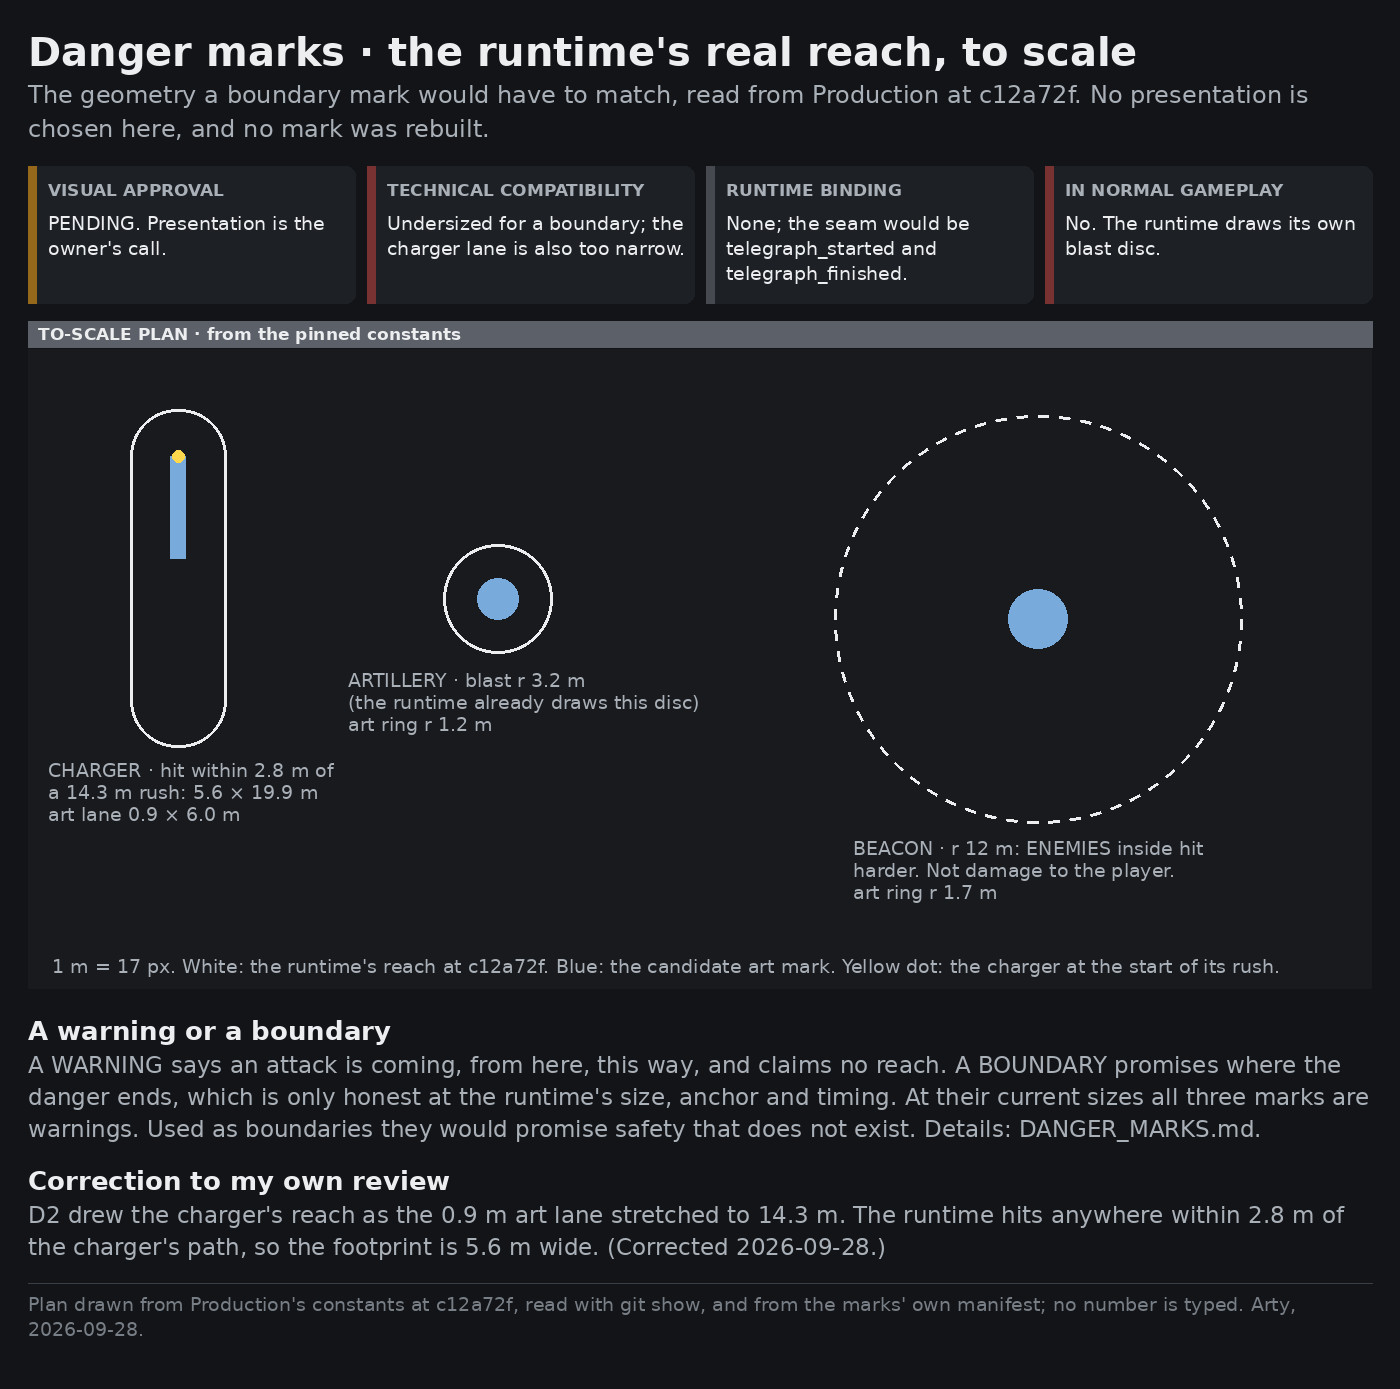
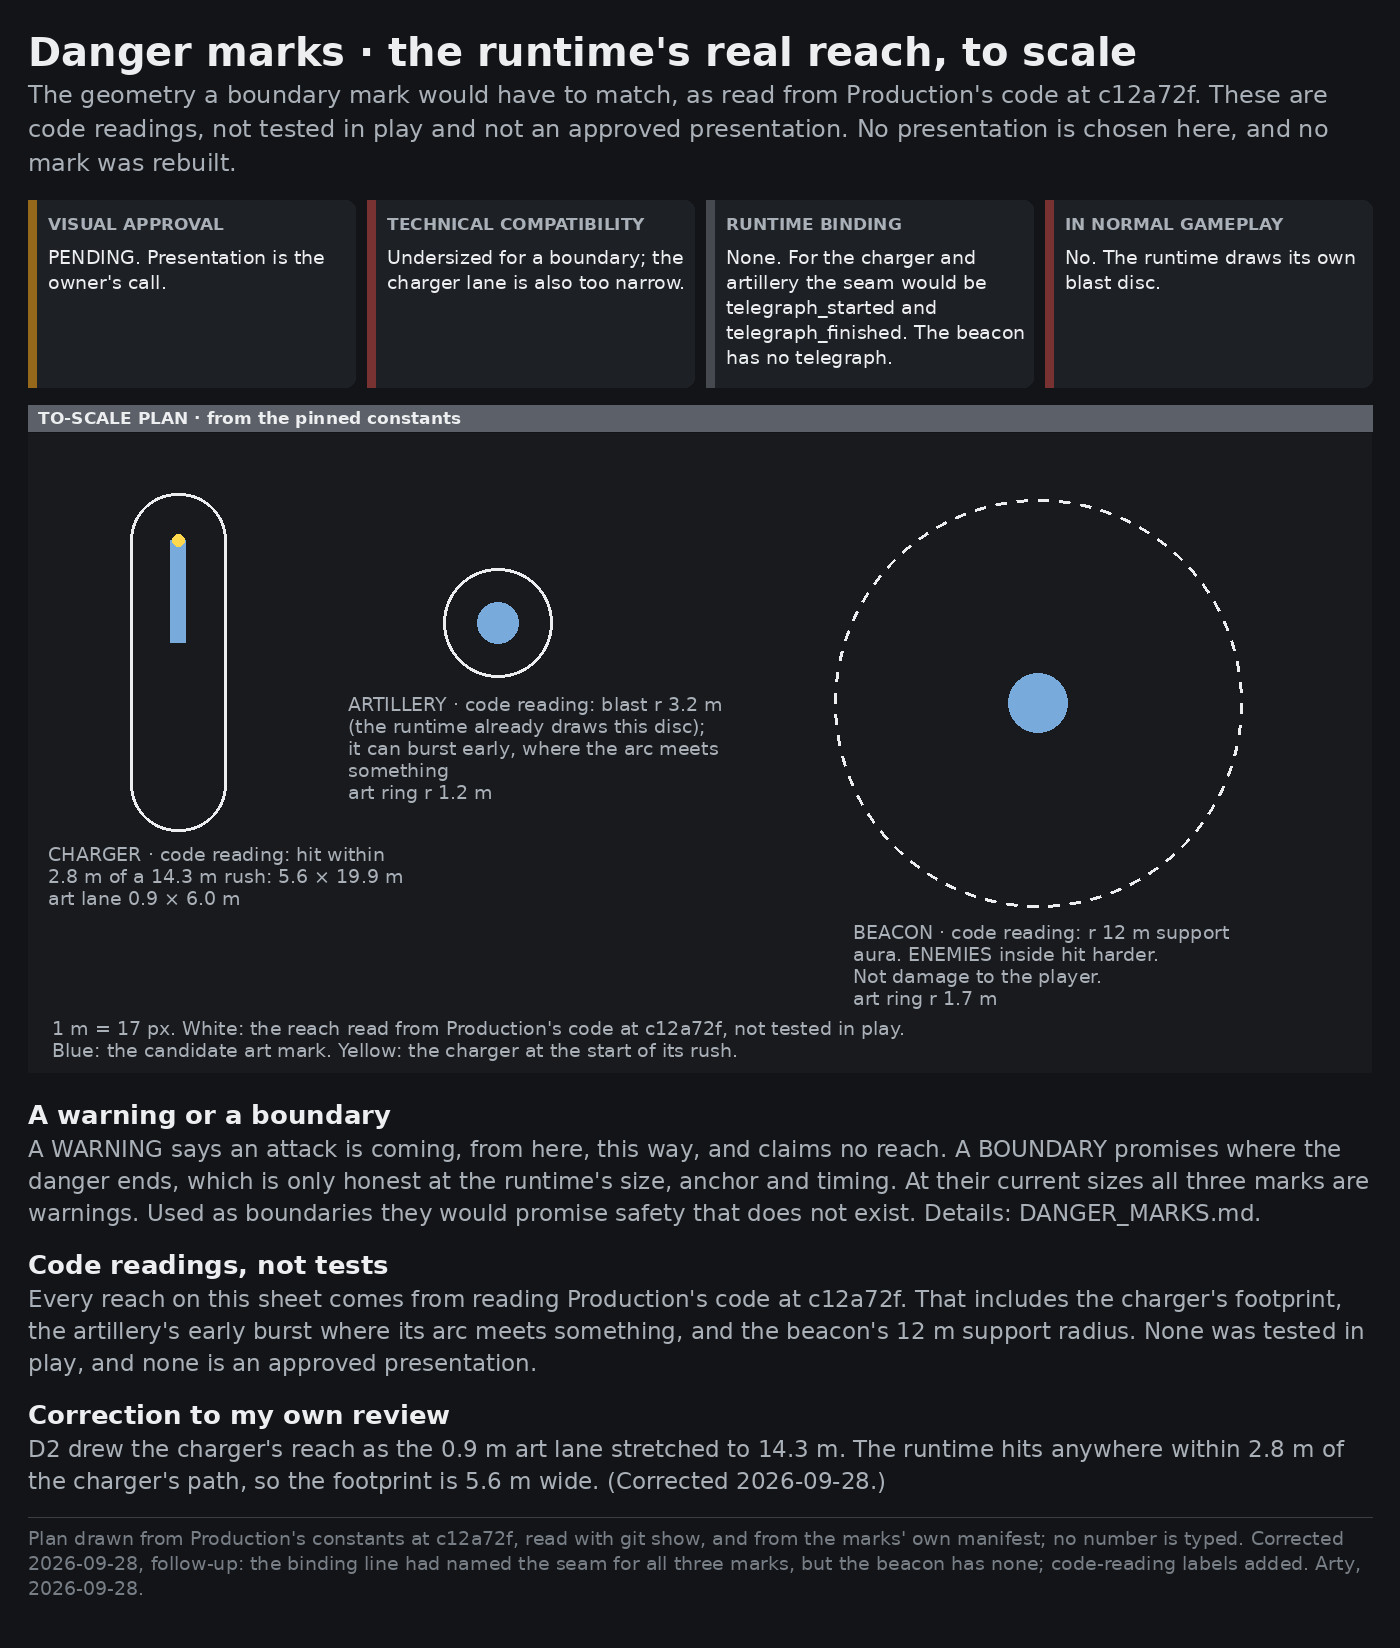
Danger marks: the seam is the charger's and artillery's; readings labelled
Two documentation corrections the owner asked for.

1. Sheet 4's binding status said generally that "the seam would be
   telegraph_started and telegraph_finished". At c12a72f that seam
   exists for the charger and the artillery only. The beacon's aura
   pulses every second and its blow lands with no windup, so there is no
   telegraph to bind to. DANGER_MARKS.md already said this; the sheet
   now does too.
2. Three findings are labelled as code readings wherever they appear:
   - the charger's footprint;
   - the artillery's early burst;
   - the beacon's 12 m support radius.

   Each was read from Production's code at the pin, not tested in play,
   and none is an approved presentation. They are labelled in:
   - the DANGER_MARKS rows;
   - the plan's captions;
   - the sheet's subtitle and a "Code readings, not tests" block.

Both are dated notes on the sheet and in DANGER_MARKS. The earlier sheet
stays in the history at 77d33ca.

Sheet 4 is recomposed from the same pinned constants and marks manifest;
nothing is re-rendered. The artillery drawing moves up so its longer
caption clears the charger's; its scale is unchanged.

build_sheets.py can now build only named sheets.

Claude-Session: https://claude.ai/code/session_01CHBZHyc8nG44Fe2niaqXbi

diff --git a/tools/art_repairs_2026_09_28/build_sheets.py b/tools/art_repairs_2026_09_28/build_sheets.py
@@ -187,43 +187,51 @@ def s_danger(frames, out):
                  top + r + lane[1] * ppm], fill=art_col)
     d.ellipse([cx - 6, top + r - 6, cx + 6, top + r + 6], fill=(255, 216, 77))
     d.text((cx - 130, top + L + 2 * r + 12),
-           "CHARGER · hit within %.1f m of\na %.1f m rush: %.1f × %.1f m\n"
-           "art lane %.1f × %.1f m" % (radius, travel, 2 * radius,
-                                       travel + 2 * radius, lane[0], lane[1]),
+           "CHARGER · code reading: hit within\n%.1f m of a %.1f m rush: "
+           "%.1f × %.1f m\nart lane %.1f × %.1f m" % (
+               radius, travel, 2 * radius, travel + 2 * radius, lane[0],
+               lane[1]),
            fill=ink, font=f)
     # 2. The artillery: the blast and the art ring.
-    ax, ay = 470, 250
+    ax, ay = 470, 190
     d.ellipse([ax - blast * ppm, ay - blast * ppm, ax + blast * ppm,
                ay + blast * ppm], outline=true_col, width=3)
     d.ellipse([ax - warned * ppm, ay - warned * ppm, ax + warned * ppm,
                ay + warned * ppm], fill=art_col)
     d.text((ax - 150, ay + blast * ppm + 16),
-           "ARTILLERY · blast r %.1f m\n(the runtime already draws this disc)"
-           "\nart ring r %.1f m" % (blast, warned), fill=ink, font=f)
+           "ARTILLERY · code reading: blast r %.1f m\n(the runtime already "
+           "draws this disc);\nit can burst early, where the arc meets\n"
+           "something\n"
+           "art ring r %.1f m" % (blast, warned), fill=ink, font=f)
     # 3. The beacon: an ally aura, not player damage.
     bx, by = 1010, 270
     dashed_circle(bx, by, aura * ppm)
     d.ellipse([bx - ring * ppm, by - ring * ppm, bx + ring * ppm,
                by + ring * ppm], fill=art_col)
     d.text((bx - 185, by + aura * ppm + 14),
-           "BEACON · r %.0f m: ENEMIES inside hit\nharder. Not damage to "
-           "the player.\nart ring r %.1f m" % (aura, ring), fill=ink, font=f)
-    d.text((24, H - 34), "1 m = %d px. White: the runtime's reach at "
-           "c12a72f. Blue: the candidate art mark. Yellow dot: the "
-           "charger at the start of its rush." % ppm, fill=ink, font=f)
+           "BEACON · code reading: r %.0f m support\naura. ENEMIES inside "
+           "hit harder.\nNot damage to the player.\nart ring r %.1f m"
+           % (aura, ring), fill=ink, font=f)
+    d.text((24, H - 56), "1 m = %d px. White: the reach read from "
+           "Production's code at c12a72f, not tested in play.\nBlue: the "
+           "candidate art mark. Yellow: the charger at the start of its "
+           "rush." % ppm, fill=ink, font=f)
     plan = os.path.join(frames, "danger_plan.png")
     img.save(plan)
 
     s = Sheet("Danger marks · the runtime's real reach, to scale",
-              "The geometry a boundary mark would have to match, read from "
-              "Production at c12a72f. No presentation is chosen here, and "
-              "no mark was rebuilt.")
+              "The geometry a boundary mark would have to match, as read "
+              "from Production's code at c12a72f. These are code readings, "
+              "not tested in play and not an approved presentation. No "
+              "presentation is chosen here, and no mark was rebuilt.")
     s.statuses(visual=("pending", "PENDING. Presentation is the owner's "
                                   "call."),
                compat=("no", "Undersized for a boundary; the charger lane "
                              "is also too narrow."),
-               binding=("none", "None; the seam would be telegraph_started "
-                                "and telegraph_finished."),
+               binding=("none", "None. For the charger and artillery the "
+                                "seam would be telegraph_started and "
+                                "telegraph_finished. The beacon has no "
+                                "telegraph."),
                play=("no", "No. The runtime draws its own blast disc."))
     s.row([Panel(plan, "", tag="SCALE")])
     s.text("A warning or a boundary",
@@ -233,6 +241,12 @@ def s_danger(frames, out):
            "At their current sizes all three marks are warnings. Used as "
            "boundaries they would promise safety that does not exist. "
            "Details: DANGER_MARKS.md.")
+    s.text("Code readings, not tests",
+           "Every reach on this sheet comes from reading Production's code "
+           "at c12a72f. That includes the charger's footprint, the "
+           "artillery's early burst where its arc meets something, and "
+           "the beacon's 12 m support radius. None was tested in play, and "
+           "none is an approved presentation.")
     s.text("Correction to my own review",
            "D2 drew the charger's reach as the 0.9 m art lane stretched to "
            "14.3 m. The runtime hits anywhere within %.1f m of the "
@@ -240,14 +254,19 @@ def s_danger(frames, out):
            "2026-09-28.)" % (radius, 2 * radius))
     s.footer("Plan drawn from Production's constants at c12a72f, read with "
              "git show, and from the marks' own manifest; no number is "
-             "typed. Arty, 2026-09-28.")
+             "typed. Corrected 2026-09-28, follow-up: the binding line had "
+             "named the seam for all three marks, but the beacon has none; "
+             "code-reading labels added. Arty, 2026-09-28.")
     return s.save(os.path.join(out, "4_danger_marks_to_scale.jpg"))
 
 
 def main():
+    """<frames> <out-dir> [sheet function ...]: all sheets, or just those."""
     frames, out = sys.argv[1], sys.argv[2]
     os.makedirs(out, exist_ok=True)
-    for build in (s049, s_skiff, s_panels, s_danger):
+    every = (s049, s_skiff, s_panels, s_danger)
+    only = sys.argv[3:]
+    for build in (b for b in every if not only or b.__name__ in only):
         path = build(frames, out)
         print("%s  %.0f KB" % (path, os.path.getsize(path) / 1024.0))
 

diff --git a/docs/art/review/repairs_2026-09-28/DANGER_MARKS.md b/docs/art/review/repairs_2026-09-28/DANGER_MARKS.md
@@ -7,6 +7,14 @@ ground marks would need, read from Production's pinned revision
 (`c12a72fbc62500f4815d683d66a97f47fe514b06`). **No presentation is chosen
 here, and no mark was rebuilt.**
 
+**Every finding here is a reading of Production's code at that pinned
+revision.** None was tested in play, and none is an approved
+presentation. Three findings shape the decision most, so each is labelled
+where it appears:
+- the charger's footprint;
+- the artillery shell's early burst;
+- the beacon's 12 m support radius.
+
 The marks are candidates from Batch 051:
 - `fx_charger_lane`, 0.9 × 6.0 m;
 - `fx_warned_ground`, 2.40 m across;
@@ -37,7 +45,7 @@ At their current sizes, all three marks are warnings, not boundaries.
 | **Windup** | 0.7 s (`TELEGRAPH_SECONDS["charger"]`, `enemy.gd:94`), announced by `telegraph_started("charge", 0.7)` |
 | **Travel** | 13 m/s for 1.1 s: up to **14.3 m** of the charger's origin along that line (`constants.gd:40-41`, `enemy.gd:1015`). A wall ends it early (`:1025`). Rooted or anchored, it does not move at all (`:858`, `:1008`). |
 | **What hits** | The player's origin within **2.8 m** of the charger's origin at any moment of the rush (`reach` × 0.2, `enemy.gd:1018`). This is 3D distance, so height counts. |
-| **True footprint** | Every point within 2.8 m of the travelled segment: on open ground a **stadium 5.6 m wide and up to 19.9 m long**, including 2.8 m behind the start. It is shorter where a wall stops the rush. When the charger is held (rooted or anchored), it is a 2.8 m disc around the charger, because the hit test still runs where it stands. |
+| **True footprint** *(code reading; not tested in play)* | Every point within 2.8 m of the travelled segment: on open ground a **stadium 5.6 m wide and up to 19.9 m long**, including 2.8 m behind the start. It is shorter where a wall stops the rush. When the charger is held (rooted or anchored), it is a 2.8 m disc around the charger, because the hit test still runs where it stands. |
 | **Art today** | `fx_charger_lane`, 0.9 × 6.0 m: **about a sixth of the width and under a third of the length** |
 
 **Correction to my own review.** The owner review's D2 plan drew the
@@ -53,14 +61,14 @@ rush's reach as the 0.9 m art lane stretched to 14.3 m. It is 5.6 m wide.
 | **Windup** | 0.8 s (`enemy.gd:97`); the shell is then lobbed (`:1409`) and flies 1.6 s (`constants.gd:20`) |
 | **The runtime's own mark** | **Already a boundary.** A disc of radius exactly `blast` (3.2 m) at the target, placed when the shell is fired and removed when it bursts (`enemy.gd:1295-1302`, `:1347`, `:1386-1387`) |
 | **What hits** | The player's origin within **3.2 m** of the burst, and only if the chest (+1.0 m) or the knees (+0.3 m) can be seen from it. A wall is cover; low cover is not (`enemy.gd:1369-1384`). |
-| **Where it bursts** | At the target, or earlier where the arc meets something (`enemy.gd:1353-1357`). In that case the disc marked the wrong place. |
+| **Where it bursts** *(code reading; not tested in play)* | At the target, or earlier where the arc meets something (`enemy.gd:1353-1357`). In that case the disc marked the wrong place. |
 | **Art today** | `fx_warned_ground`, about 1.2 m radius: **a warning at most**. Put in place of the runtime disc, it would promise safety between about 1.2 m and 3.2 m. |
 
 ## The beacon
 
 | | At `c12a72f` |
 |---|---|
-| **What the radius is** | **Not a danger to the player.** Every 1.0 s, each other living enemy within **12 m** of the beacon (origin to origin, 3D) gets `empowered` for 2.0 s: +50% damage (`constants.gd:27-29`, `enemy.gd:1204-1217`, `_hit_for`, `:1428`) |
+| **Support radius** *(code reading; not tested in play)* | **Not a danger to the player.** Every 1.0 s, each other living enemy within **12 m** of the beacon (origin to origin, 3D) gets `empowered` for 2.0 s: +50% damage (`constants.gd:27-29`, `enemy.gd:1204-1217`, `_hit_for`, `:1428`) |
 | **The beacon's own blow** | Damage 2 within 2 m, every 2 s, with no windup and no telegraph (`constants.gd:278`, `enemy.gd:760-767`). This is the only direct danger, and it is small. |
 | **Art today** | `fx_beacon_range`, about 1.7 m radius: **a marker of the beacon**, not of its range |
 
@@ -84,3 +92,14 @@ completed)` (`enemy.gd:18-32`). Its own comment says `completed` means
 **The beacon has no telegraph.** Its aura pulses every 1.0 s and its
 blow lands without a windup (`enemy.gd:517-518`, `:760-767`). A mark for
 it could only follow the beacon itself; there is no signal to bind to.
+
+*Clarified 2026-09-28, follow-up:*
+- Each of the three findings above is now labelled as a code reading.
+  Before, only the note's opening said so.
+- The beacon row's heading, "What the radius is", became "Support
+  radius". The content is unchanged.
+- Sheet 4's binding status used to say that the seam would be
+  `telegraph_started` and `telegraph_finished`, as if that applied to all
+  three marks. It now names the charger and the artillery only, and says
+  the beacon has no telegraph, as this note already did. The earlier
+  sheet is kept in the history at `77d33ca`.
